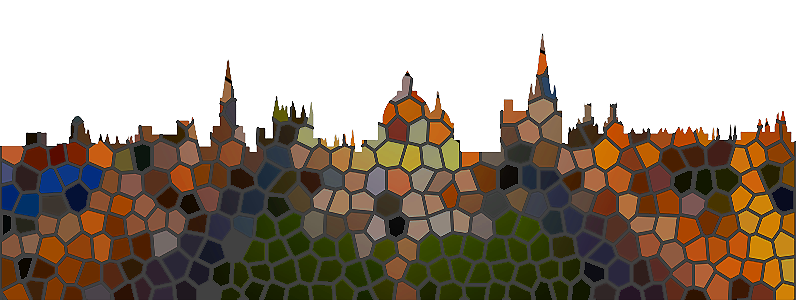
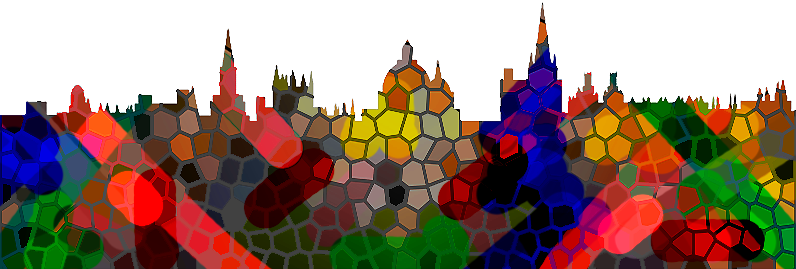
20250303__22:35__kgurashi

diff --git a/_pages/about.md b/_pages/about.md
@@ -27,3 +27,7 @@ Hello! I'm an enthusiastic researcher with a passion for data science and machin
 ### Favorite Quote
 
 > "The only way to do great work is to love what you do." - Steve Jobs
+
+
+### Keywords Word Cloud
+![Word Cloud](wordcloud.png)
